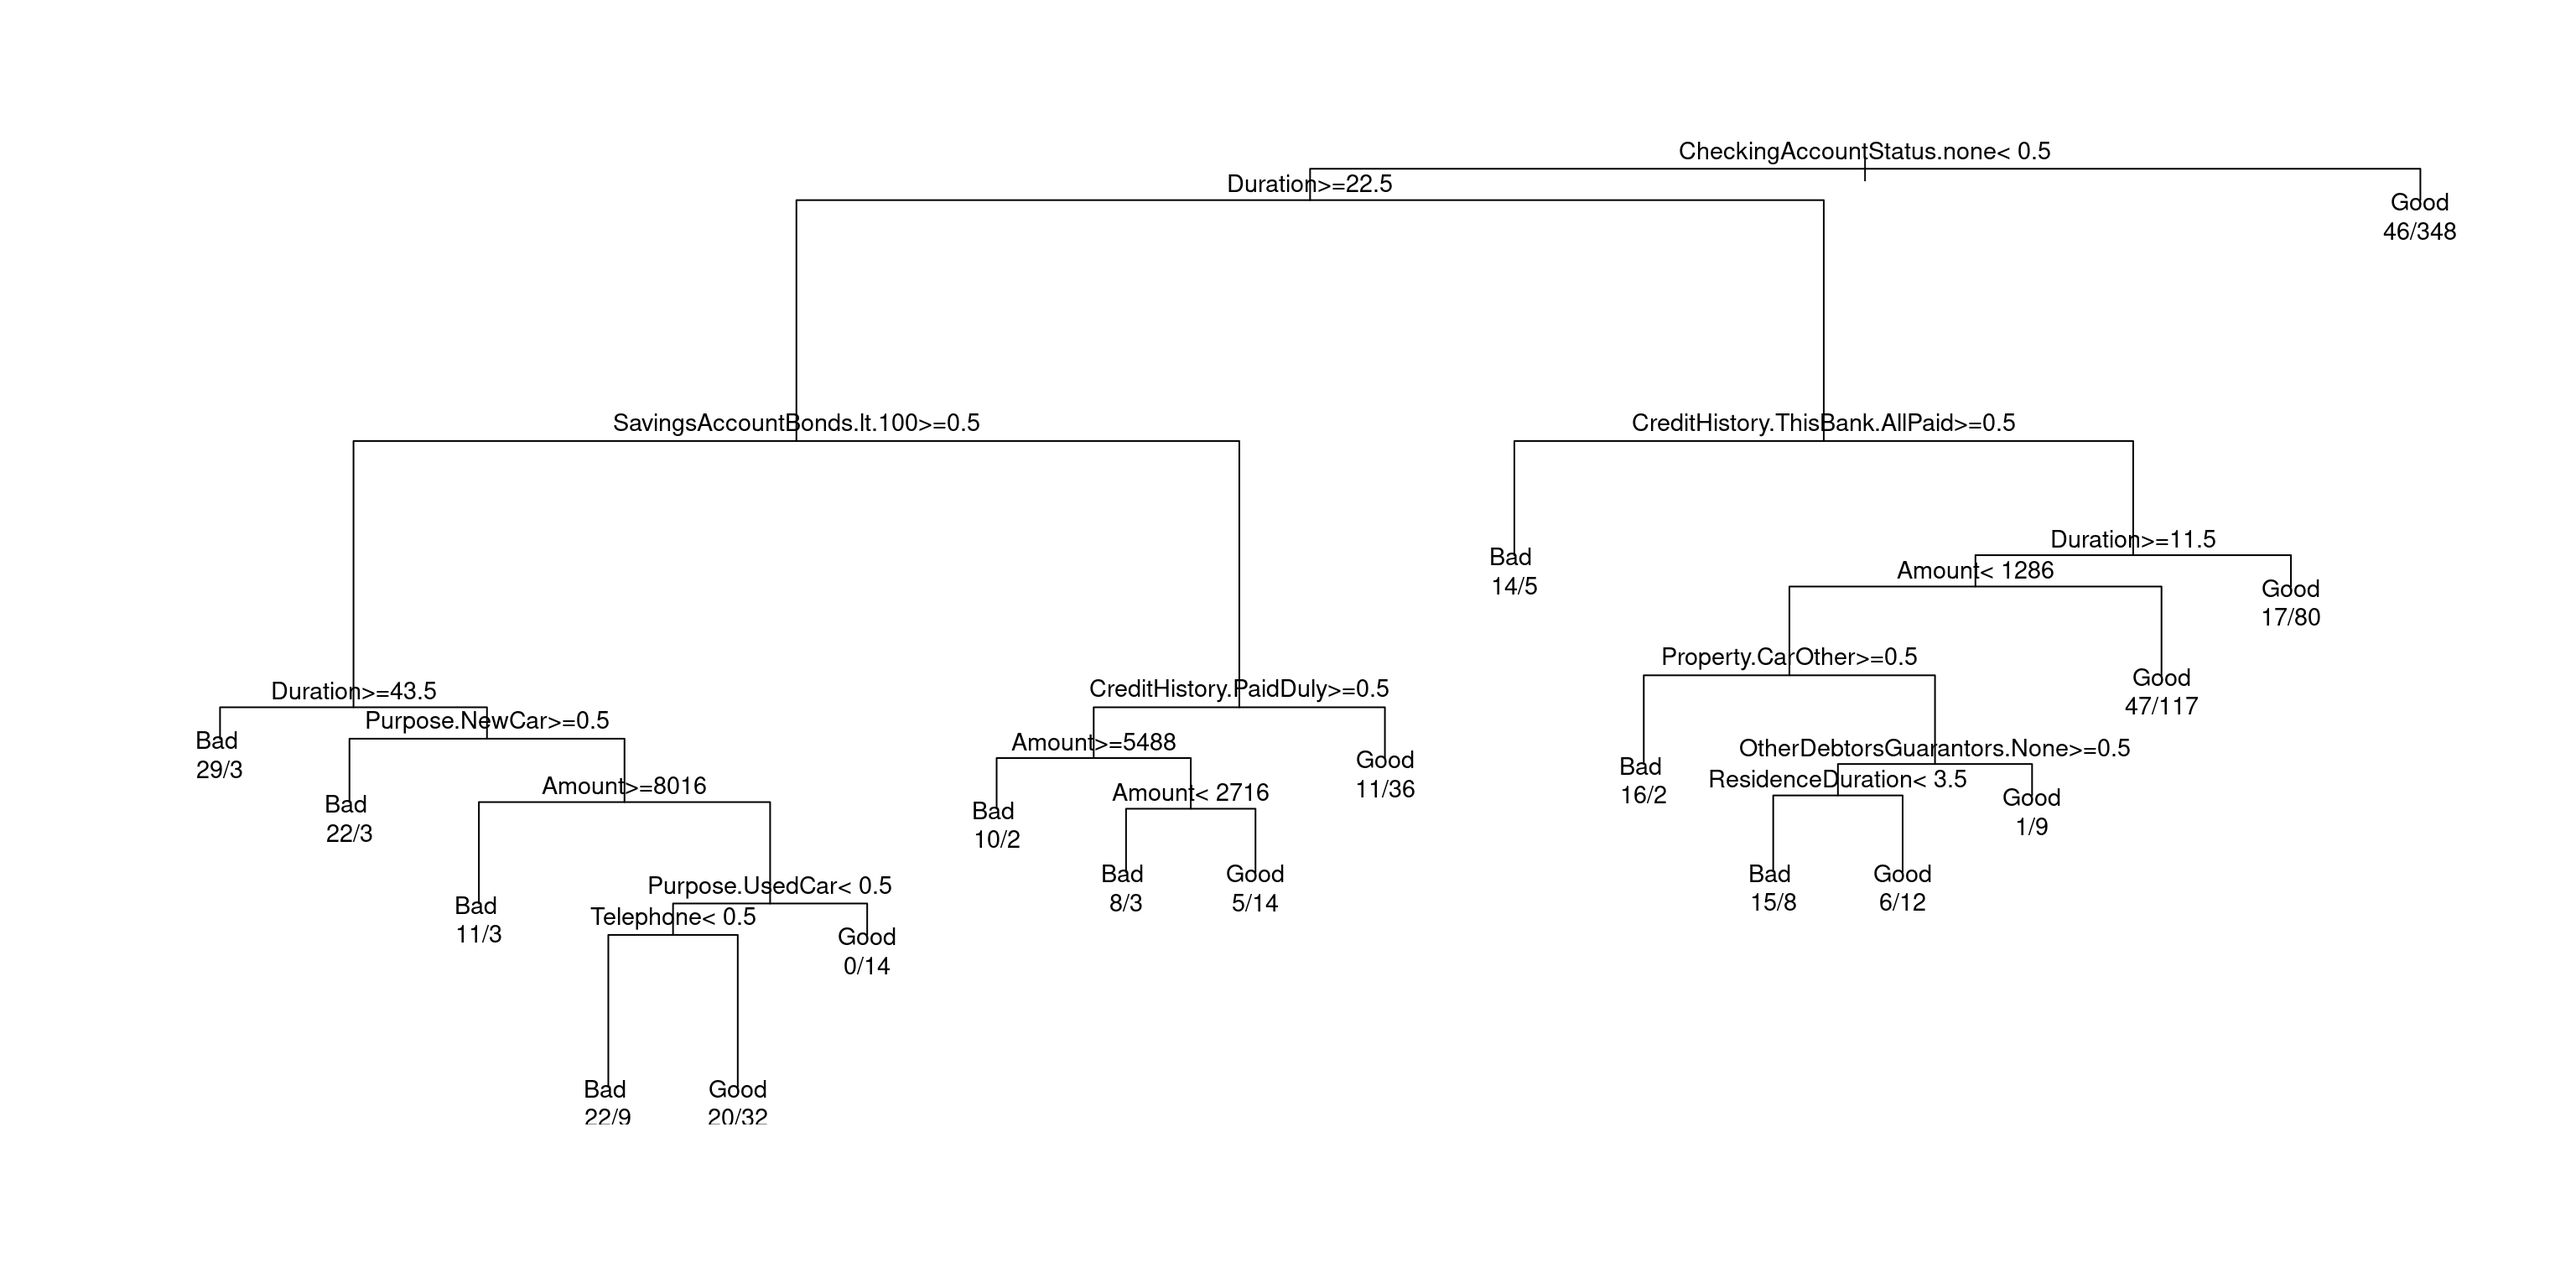
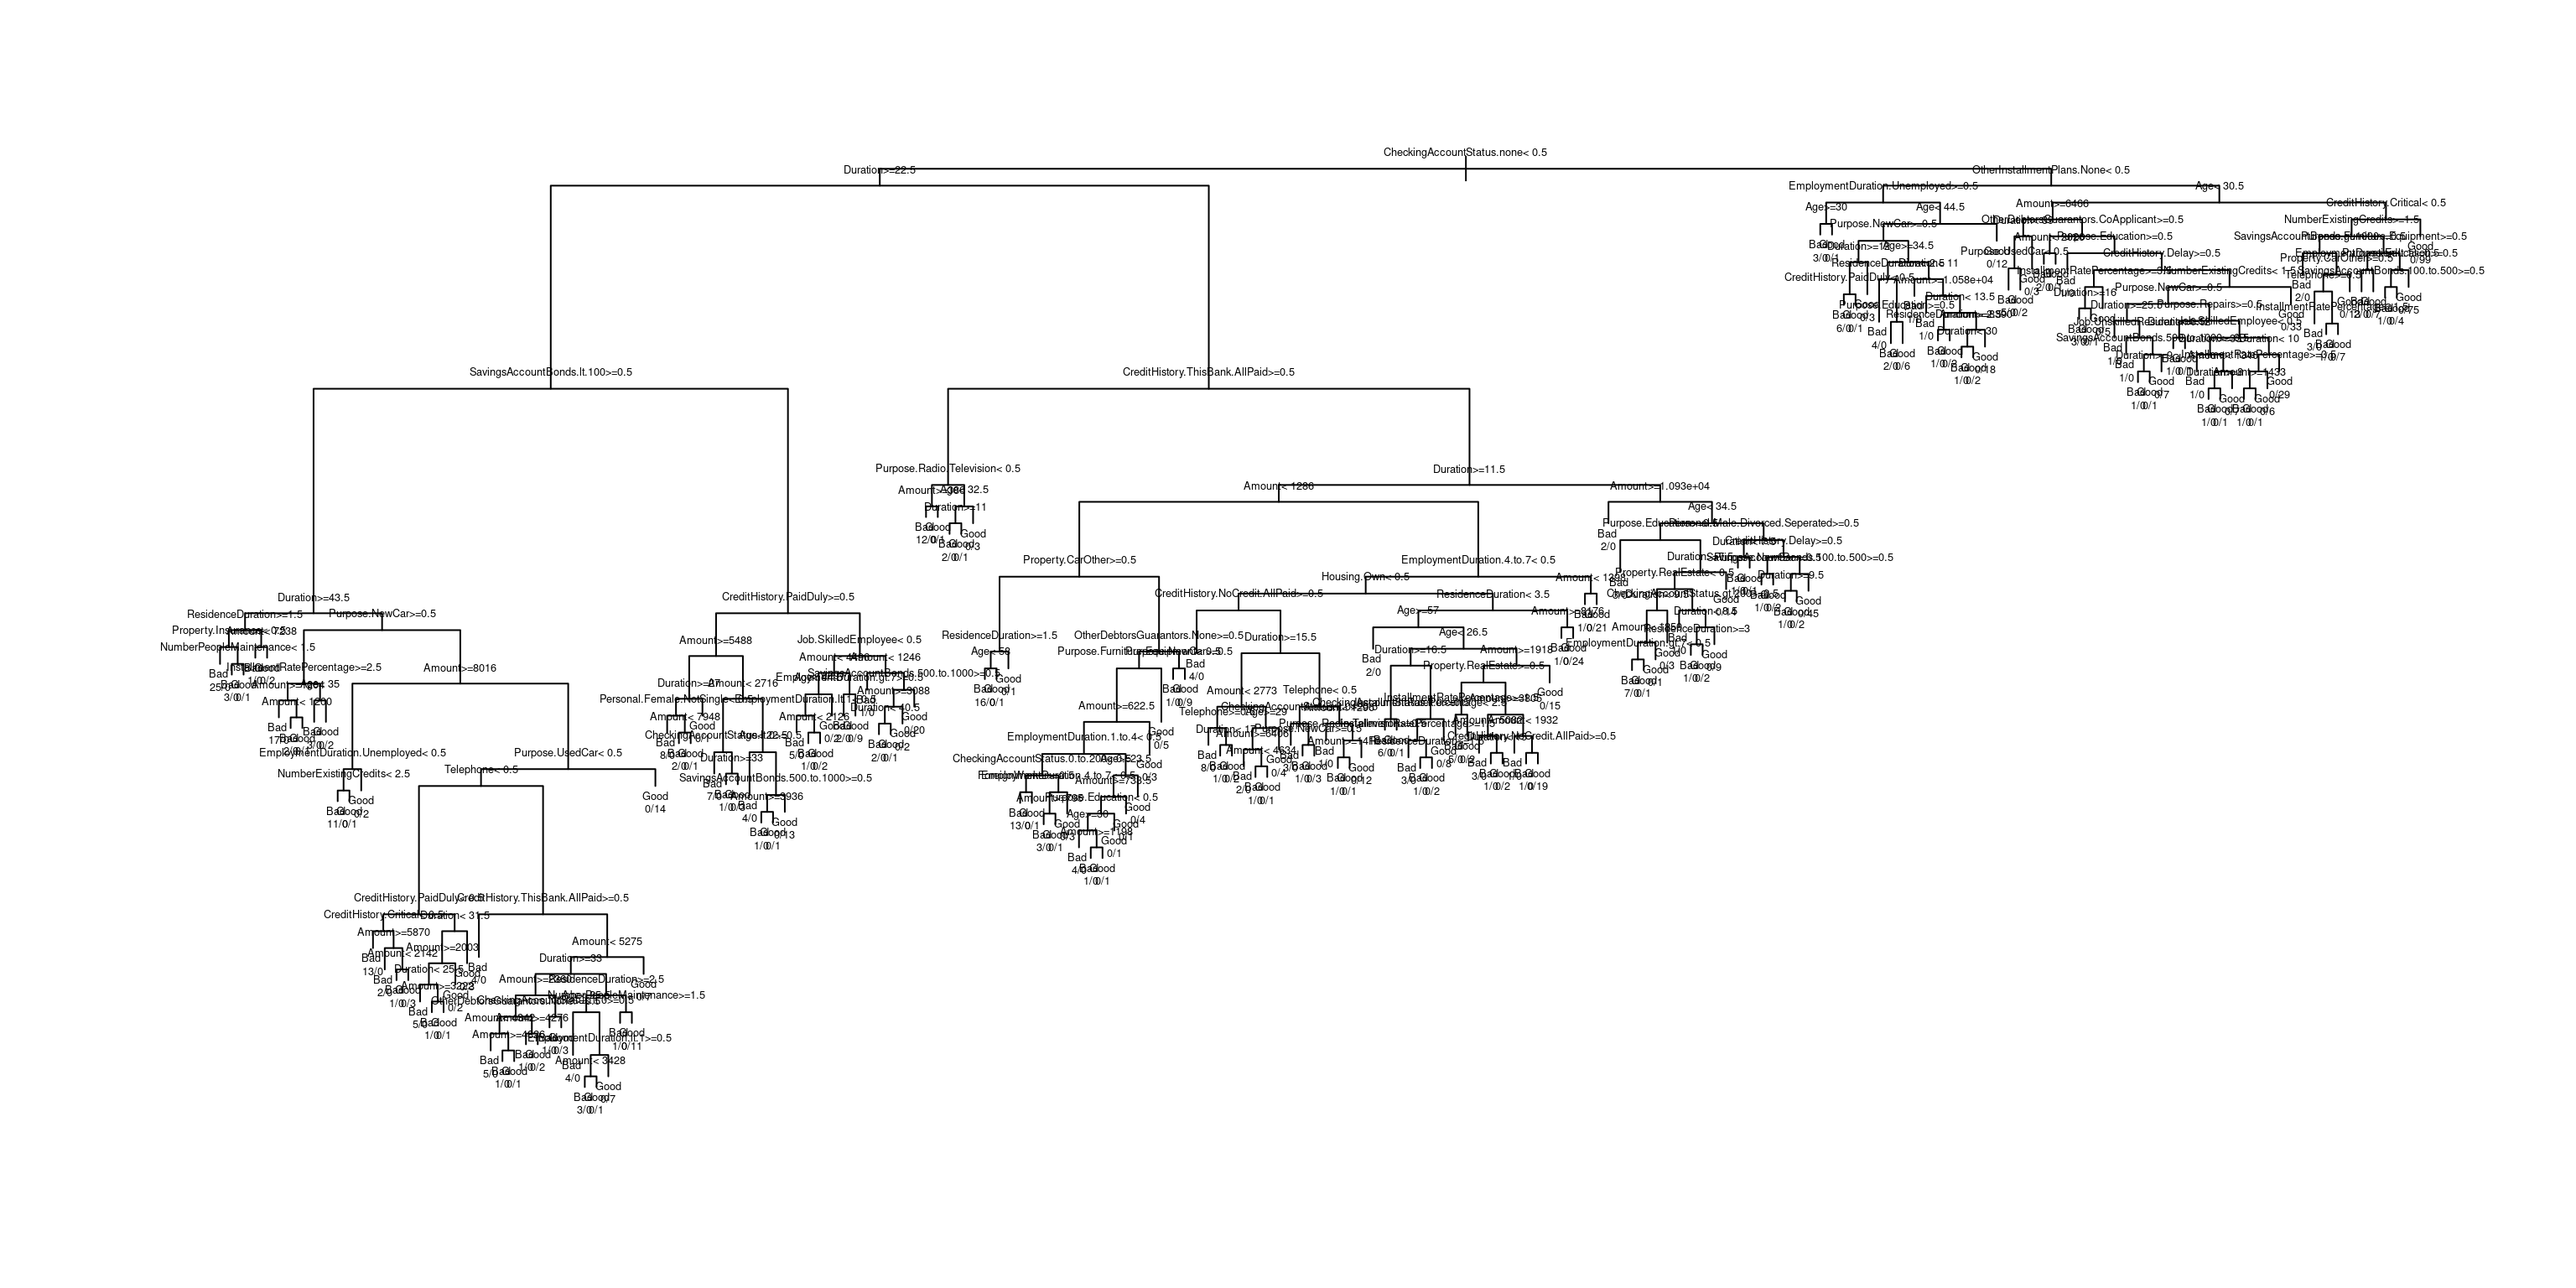
some further edits cart 2

diff --git a/supervised/supervised.html b/supervised/supervised.html
@@ -750,7 +750,7 @@ rpart(formula = species ~ ., data = penguins, minsplit = 4, xval = 50)
 1 0.62032086      0 1.00000000 1.00000000 0.04842097
 2 0.28877005      1 0.37967914 0.38502674 0.04017194
 3 0.02673797      2 0.09090909 0.11764706 0.02423973
-4 0.01604278      3 0.06417112 0.09625668 0.02206621
+4 0.01604278      3 0.06417112 0.08556150 0.02087017
 5 0.01069519      4 0.04812834 0.08021390 0.02023930
 6 0.01000000      7 0.01604278 0.06951872 0.01890092
 
@@ -1118,12 +1118,9 @@ Balanced Accuracy           0.9661           0.9500        0.9958</code></pre>
 </div>
 </div>
 </section>
-<section id="a-more-complex-example-germancredit-dataset-1" class="slide level2">
-<h2>A more complex example: <code>GermanCredit</code> dataset</h2>
-<p>Unpruned tree</p>
-</section>
 <section id="section-10" class="slide level2">
 <h2></h2>
+<p>Estimated decision tree (with pruning)</p>
 <div class="cell" data-layout-align="center">
 <div class="sourceCode cell-code" id="cb14"><pre class="sourceCode r code-with-copy"><code class="sourceCode r"><span id="cb14-1"><a href="" aria-hidden="true" tabindex="-1"></a>credit_tree <span class="ot">&lt;-</span> <span class="fu">rpart</span>(Class  <span class="sc">~</span> ., <span class="at">data =</span> GermanCredit, <span class="at">xval=</span><span class="dv">100</span>)</span>
 <span id="cb14-2"><a href="" aria-hidden="true" tabindex="-1"></a></span>
@@ -1132,7 +1129,7 @@ Balanced Accuracy           0.9661           0.9500        0.9958</code></pre>
 <div class="cell-output-display">
 <div class="quarto-figure quarto-figure-center">
 <figure>
-<p><img data-src="supervised_files/figure-revealjs/unnamed-chunk-19-1.png" class="quarto-figure quarto-figure-center" width="1536"></p>
+<p><img data-src="supervised_files/figure-revealjs/unnamed-chunk-18-1.png" class="quarto-figure quarto-figure-center" width="1536"></p>
 </figure>
 </div>
 </div>
@@ -1140,14 +1137,17 @@ Balanced Accuracy           0.9661           0.9500        0.9958</code></pre>
 </section>
 <section id="section-11" class="slide level2">
 <h2></h2>
-<p>Unpruned tree plot</p>
+<p>Unpruned tree</p>
 <div class="cell" data-layout-align="center">
-<div class="sourceCode cell-code" id="cb15"><pre class="sourceCode r code-with-copy"><code class="sourceCode r"><span id="cb15-1"><a href="" aria-hidden="true" tabindex="-1"></a><span class="fu">plot</span>(credit_tree)</span>
-<span id="cb15-2"><a href="" aria-hidden="true" tabindex="-1"></a><span class="fu">text</span>(credit_tree, <span class="at">use.n =</span> <span class="cn">TRUE</span>, <span class="at">cex=</span><span class="fl">0.4</span>)</span></code><button title="Copy to Clipboard" class="code-copy-button"><i class="bi"></i></button></pre></div>
+<div class="sourceCode cell-code" id="cb15"><pre class="sourceCode r code-with-copy"><code class="sourceCode r"><span id="cb15-1"><a href="" aria-hidden="true" tabindex="-1"></a>credit_tree <span class="ot">&lt;-</span> <span class="fu">rpart</span>(Class  <span class="sc">~</span> ., <span class="at">data =</span> GermanCredit,</span>
+<span id="cb15-2"><a href="" aria-hidden="true" tabindex="-1"></a>                     <span class="at">cp =</span> <span class="dv">0</span>, <span class="at">minsplit =</span> <span class="dv">2</span>)</span>
+<span id="cb15-3"><a href="" aria-hidden="true" tabindex="-1"></a></span>
+<span id="cb15-4"><a href="" aria-hidden="true" tabindex="-1"></a><span class="fu">plot</span>(credit_tree)</span>
+<span id="cb15-5"><a href="" aria-hidden="true" tabindex="-1"></a><span class="fu">text</span>(credit_tree, <span class="at">use.n =</span> <span class="cn">TRUE</span>, <span class="at">cex=</span><span class="fl">0.4</span>)</span></code><button title="Copy to Clipboard" class="code-copy-button"><i class="bi"></i></button></pre></div>
 <div class="cell-output-display">
 <div class="quarto-figure quarto-figure-center">
 <figure>
-<p><img data-src="supervised_files/figure-revealjs/unnamed-chunk-20-1.png" class="quarto-figure quarto-figure-center" width="1536"></p>
+<p><img data-src="supervised_files/figure-revealjs/unnamed-chunk-19-1.png" class="quarto-figure quarto-figure-center" width="1536"></p>
 </figure>
 </div>
 </div>
@@ -1204,7 +1204,7 @@ Balanced Accuracy           0.9661           0.9500        0.9958</code></pre>
 </ul>
 <div class="quarto-figure quarto-figure-center">
 <figure>
-<p><img data-src="Random_Forest_Bagging_Illustration.png" class="quarto-figure quarto-figure-center" style="width:90.0%"></p>
+<p><img data-src="Random_Forest_Bagging_Illustration.png" class="quarto-figure quarto-figure-center" style="width:60.0%"></p>
 </figure>
 </div>
 </section>
@@ -1226,12 +1226,12 @@ Call:
                      Number of trees: 500
 No. of variables tried at each split: 2
 
-        OOB estimate of  error rate: 1.2%
+        OOB estimate of  error rate: 0.9%
 Confusion matrix:
           Adelie Chinstrap Gentoo class.error
-Adelie       144         2      0  0.01369863
-Chinstrap      2        66      0  0.02941176
-Gentoo         0         0    119  0.00000000</code></pre>
+Adelie       145         1      0 0.006849315
+Chinstrap      2        66      0 0.029411765
+Gentoo         0         0    119 0.000000000</code></pre>
 </div>
 </div>
 <ul>
@@ -1255,7 +1255,7 @@ Gentoo         0         0    119  0.00000000</code></pre>
 <div class="cell-output-display">
 <div class="quarto-figure quarto-figure-center">
 <figure>
-<p><img data-src="supervised_files/figure-revealjs/unnamed-chunk-22-1.png" class="quarto-figure quarto-figure-center" width="480"></p>
+<p><img data-src="supervised_files/figure-revealjs/unnamed-chunk-21-1.png" class="quarto-figure quarto-figure-center" width="480"></p>
 </figure>
 </div>
 </div>

diff --git a/supervised/supervised.revealjs.md b/supervised/supervised.revealjs.md
@@ -454,7 +454,7 @@ rpart(formula = species ~ ., data = penguins, minsplit = 4, xval = 50)
 1 0.62032086      0 1.00000000 1.00000000 0.04842097
 2 0.28877005      1 0.37967914 0.38502674 0.04017194
 3 0.02673797      2 0.09090909 0.11764706 0.02423973
-4 0.01604278      3 0.06417112 0.09625668 0.02206621
+4 0.01604278      3 0.06417112 0.08556150 0.02087017
 5 0.01069519      4 0.04812834 0.08021390 0.02023930
 6 0.01000000      7 0.01604278 0.06951872 0.01890092
 
@@ -870,19 +870,10 @@ ggplot(conf_df, aes(x = Prediction, y = Reference, fill = Freq)) +
 
 
 
-## A more complex example: `GermanCredit` dataset
-
-Unpruned tree
-
-
-
-::: {.cell}
-
-:::
-
-
 
 ## 
+
+Estimated decision tree (with pruning)
 
 
 
@@ -896,7 +887,7 @@ text(credit_tree, use.n = TRUE, cex=0.9)
 ```
 
 ::: {.cell-output-display}
-![](supervised_files/figure-revealjs/unnamed-chunk-19-1.png){fig-align='center' width=1536}
+![](supervised_files/figure-revealjs/unnamed-chunk-18-1.png){fig-align='center' width=1536}
 :::
 :::
 
@@ -905,19 +896,22 @@ text(credit_tree, use.n = TRUE, cex=0.9)
 
 ## 
 
-Unpruned tree plot
+Unpruned tree
 
 
 
 ::: {.cell layout-align="center"}
 
 ```{.r .cell-code}
+credit_tree <- rpart(Class  ~ ., data = GermanCredit,
+                     cp = 0, minsplit = 2)
+
 plot(credit_tree)
 text(credit_tree, use.n = TRUE, cex=0.4)
 ```
 
 ::: {.cell-output-display}
-![](supervised_files/figure-revealjs/unnamed-chunk-20-1.png){fig-align='center' width=1536}
+![](supervised_files/figure-revealjs/unnamed-chunk-19-1.png){fig-align='center' width=1536}
 :::
 :::
 
@@ -971,7 +965,7 @@ text(credit_tree, use.n = TRUE, cex=0.4)
 
 -   Particularly helpful when we hav a large number of correlated predictors
 
-![](Random_Forest_Bagging_Illustration.png){fig-align="center" width="90%"}
+![](Random_Forest_Bagging_Illustration.png){fig-align="center" width="60%"}
 
 ## Random forests in R
 
@@ -999,12 +993,12 @@ Call:
                      Number of trees: 500
 No. of variables tried at each split: 2
 
-        OOB estimate of  error rate: 1.2%
+        OOB estimate of  error rate: 0.9%
 Confusion matrix:
           Adelie Chinstrap Gentoo class.error
-Adelie       144         2      0  0.01369863
-Chinstrap      2        66      0  0.02941176
-Gentoo         0         0    119  0.00000000
+Adelie       145         1      0 0.006849315
+Chinstrap      2        66      0 0.029411765
+Gentoo         0         0    119 0.000000000
 ```
 
 
@@ -1037,7 +1031,7 @@ ggplot(data = as.data.frame(conf_mat$table), aes(Prediction, Reference, fill = F
 ```
 
 ::: {.cell-output-display}
-![](supervised_files/figure-revealjs/unnamed-chunk-22-1.png){fig-align='center' width=480}
+![](supervised_files/figure-revealjs/unnamed-chunk-21-1.png){fig-align='center' width=480}
 :::
 :::
 
